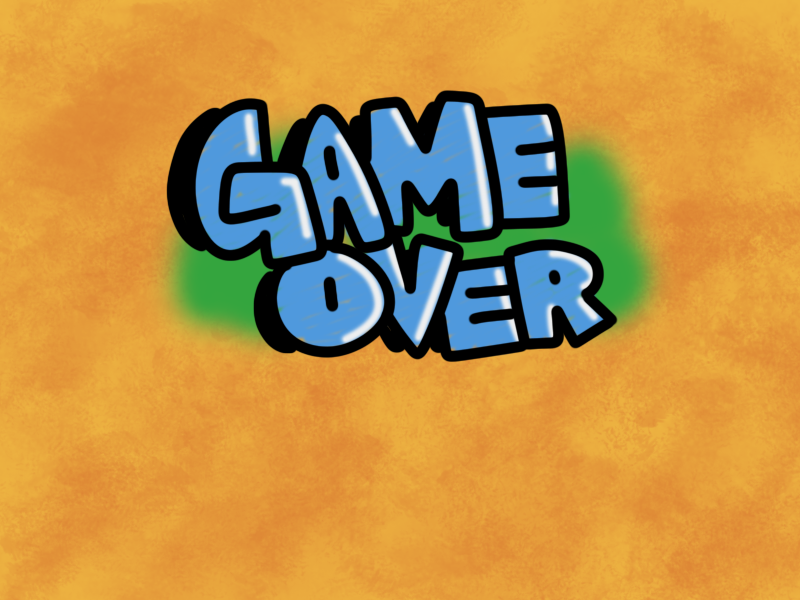
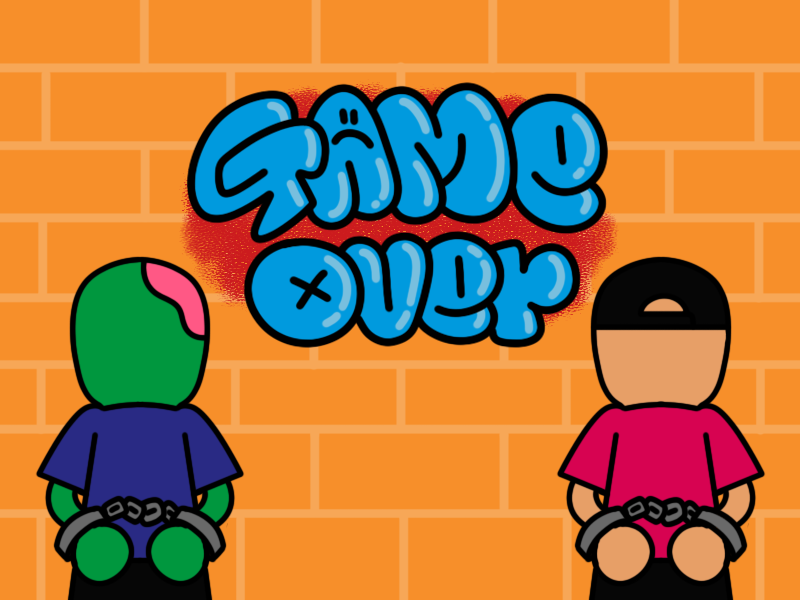
Nuevos fondos

diff --git a/Prac4_GrafficJam/src/main/resources/static/onlineLevel.js b/Prac4_GrafficJam/src/main/resources/static/onlineLevel.js
@@ -797,11 +797,6 @@ class onlineLevel extends Phaser.Scene {
 
         ////////////////////////////////// APARTADO ONLINE (WEBSOCKETS)
 
-        console.log("PRE this.player.life: " + this.player.life);
-        console.log("PRE this.player2.life: " + this.player2.life);
-        console.log("PRE player1_life: " + player1_life);
-        console.log("PRE player2_life: " + player2_life);
-
         // Sincronización de posiciones
         this.player.setPosition(player1_global.getCenter().x, player1_global.getCenter().y);
         this.player.turnedLeft = player1_turnedLeft;
@@ -810,11 +805,6 @@ class onlineLevel extends Phaser.Scene {
         this.player2.setPosition(player2_global.getCenter().x, player2_global.getCenter().y);
         this.player2.turnedLeft = player2_turnedLeft;
         this.player2.life = player2_life;
-
-        console.log("POST this.player.life: " + this.player.life);
-        console.log("POST this.player2.life: " + this.player2.life);
-        console.log("POST player1_life: " + player1_life);
-        console.log("POST player2_life: " + player2_life);
 
         for (var i = 0; i < this.activeEnemies.length; i++) {
             // Actualizo la posición de cada enemigo
@@ -1435,9 +1425,6 @@ class onlineLevel extends Phaser.Scene {
 
         // ACTUALIZACIÓN PARA QUE LOS ENEMIGOS SIGAN A LOS PERSONAJES
 
-        // console.log("PRE this.player.life: " + this.player.life);
-        // console.log("PRE this.player2.life: " + this.player2.life);
-
         if (Soy_J1) {
             for (var i = 0; i < this.activeEnemies.length; i++) {
                 if (this.activeEnemies[i].alive) {
@@ -1507,9 +1494,6 @@ class onlineLevel extends Phaser.Scene {
                 }
             }
         }
-
-        // console.log("POST this.player.life: " + this.player.life);
-        // console.log("POST this.player2.life: " + this.player2.life);
 
         ////////////////////////////ATAQUE JUGADORES///////////////////////////////
         for (var i = 0; i < this.activeEnemies.length; i++) {
@@ -1636,7 +1620,6 @@ class onlineLevel extends Phaser.Scene {
     /////////// SINCRONIZACIÓN DE POSICIONES ENTRE JUGADORES //////////
     // Envío una actualización de las posiciones de los dos jugadores
     checkSync = setInterval(this.makeSyncWSSendMessage, 200);
-
 
     makeSyncWSSendMessage() {
         if(StartGame == true){ 

diff --git a/Prac4_GrafficJam/target/classes/static/onlineLevel.js b/Prac4_GrafficJam/target/classes/static/onlineLevel.js
@@ -797,11 +797,6 @@ class onlineLevel extends Phaser.Scene {
 
         ////////////////////////////////// APARTADO ONLINE (WEBSOCKETS)
 
-        console.log("PRE this.player.life: " + this.player.life);
-        console.log("PRE this.player2.life: " + this.player2.life);
-        console.log("PRE player1_life: " + player1_life);
-        console.log("PRE player2_life: " + player2_life);
-
         // Sincronización de posiciones
         this.player.setPosition(player1_global.getCenter().x, player1_global.getCenter().y);
         this.player.turnedLeft = player1_turnedLeft;
@@ -810,11 +805,6 @@ class onlineLevel extends Phaser.Scene {
         this.player2.setPosition(player2_global.getCenter().x, player2_global.getCenter().y);
         this.player2.turnedLeft = player2_turnedLeft;
         this.player2.life = player2_life;
-
-        console.log("POST this.player.life: " + this.player.life);
-        console.log("POST this.player2.life: " + this.player2.life);
-        console.log("POST player1_life: " + player1_life);
-        console.log("POST player2_life: " + player2_life);
 
         for (var i = 0; i < this.activeEnemies.length; i++) {
             // Actualizo la posición de cada enemigo
@@ -1435,9 +1425,6 @@ class onlineLevel extends Phaser.Scene {
 
         // ACTUALIZACIÓN PARA QUE LOS ENEMIGOS SIGAN A LOS PERSONAJES
 
-        // console.log("PRE this.player.life: " + this.player.life);
-        // console.log("PRE this.player2.life: " + this.player2.life);
-
         if (Soy_J1) {
             for (var i = 0; i < this.activeEnemies.length; i++) {
                 if (this.activeEnemies[i].alive) {
@@ -1507,9 +1494,6 @@ class onlineLevel extends Phaser.Scene {
                 }
             }
         }
-
-        // console.log("POST this.player.life: " + this.player.life);
-        // console.log("POST this.player2.life: " + this.player2.life);
 
         ////////////////////////////ATAQUE JUGADORES///////////////////////////////
         for (var i = 0; i < this.activeEnemies.length; i++) {
@@ -1636,7 +1620,6 @@ class onlineLevel extends Phaser.Scene {
     /////////// SINCRONIZACIÓN DE POSICIONES ENTRE JUGADORES //////////
     // Envío una actualización de las posiciones de los dos jugadores
     checkSync = setInterval(this.makeSyncWSSendMessage, 200);
-
 
     makeSyncWSSendMessage() {
         if(StartGame == true){ 

diff --git a/Prac4_GrafficJam/src/main/resources/static/loadingServer.js b/Prac4_GrafficJam/src/main/resources/static/loadingServer.js
@@ -4,11 +4,11 @@ class loadingServer extends Phaser.Scene {
     }
 
     preload() {
-        this.load.image('bg-image-menu', 'resources/bg-image-menu.jpg');
+        this.load.image('Lobby', 'resources/Lobby.png');
     }
 
     create() {
-        this.add.image(0, 0, "bg-image-menu").setOrigin(0).setScale(0.75);
+        this.add.image(0, 0, "Lobby").setOrigin(0).setScale(1);
     }
 
     update() {

diff --git a/Prac4_GrafficJam/target/classes/static/loadingServer.js b/Prac4_GrafficJam/target/classes/static/loadingServer.js
@@ -4,11 +4,11 @@ class loadingServer extends Phaser.Scene {
     }
 
     preload() {
-        this.load.image('bg-image-menu', 'resources/bg-image-menu.jpg');
+        this.load.image('Lobby', 'resources/Lobby.png');
     }
 
     create() {
-        this.add.image(0, 0, "bg-image-menu").setOrigin(0).setScale(0.75);
+        this.add.image(0, 0, "Lobby").setOrigin(0).setScale(1);
     }
 
     update() {

diff --git a/Prac4_GrafficJam/src/main/resources/static/gameOver.js b/Prac4_GrafficJam/src/main/resources/static/gameOver.js
@@ -17,7 +17,7 @@ class gameOver extends Phaser.Scene{
     create(){
         this.background = this.add.image(0,0,'menus').setOrigin(0).setScale(1);
 
-        let inicio = this.add.image(400,450,'inic').setScale(0.1);
+        let inicio = this.add.image(400,460,'inic').setScale(0.1);
         inicio.setInteractive();
 
         inicio.on('pointerdown', function(){

diff --git a/Prac4_GrafficJam/target/classes/static/gameOver.js b/Prac4_GrafficJam/target/classes/static/gameOver.js
@@ -17,7 +17,7 @@ class gameOver extends Phaser.Scene{
     create(){
         this.background = this.add.image(0,0,'menus').setOrigin(0).setScale(1);
 
-        let inicio = this.add.image(400,450,'inic').setScale(0.1);
+        let inicio = this.add.image(400,460,'inic').setScale(0.1);
         inicio.setInteractive();
 
         inicio.on('pointerdown', function(){

diff --git a/Prac4_GrafficJam/src/main/resources/static/pauseOnlineScene.js b/Prac4_GrafficJam/src/main/resources/static/pauseOnlineScene.js
@@ -8,7 +8,7 @@ class pauseOnlineScene extends Phaser.Scene{
     }
 
     preload() {
-        this.load.image('menupo', 'resources/Fondopause.png');
+        this.load.image('menupo', 'resources/FondopauseOnline.png');
         this.load.image('restart', 'resources/desconectar.png');
         this.load.image('resume', 'resources/reanudar.png');
 

diff --git a/Prac4_GrafficJam/target/classes/static/pauseOnlineScene.js b/Prac4_GrafficJam/target/classes/static/pauseOnlineScene.js
@@ -8,7 +8,7 @@ class pauseOnlineScene extends Phaser.Scene{
     }
 
     preload() {
-        this.load.image('menupo', 'resources/Fondopause.png');
+        this.load.image('menupo', 'resources/FondopauseOnline.png');
         this.load.image('restart', 'resources/desconectar.png');
         this.load.image('resume', 'resources/reanudar.png');
 
